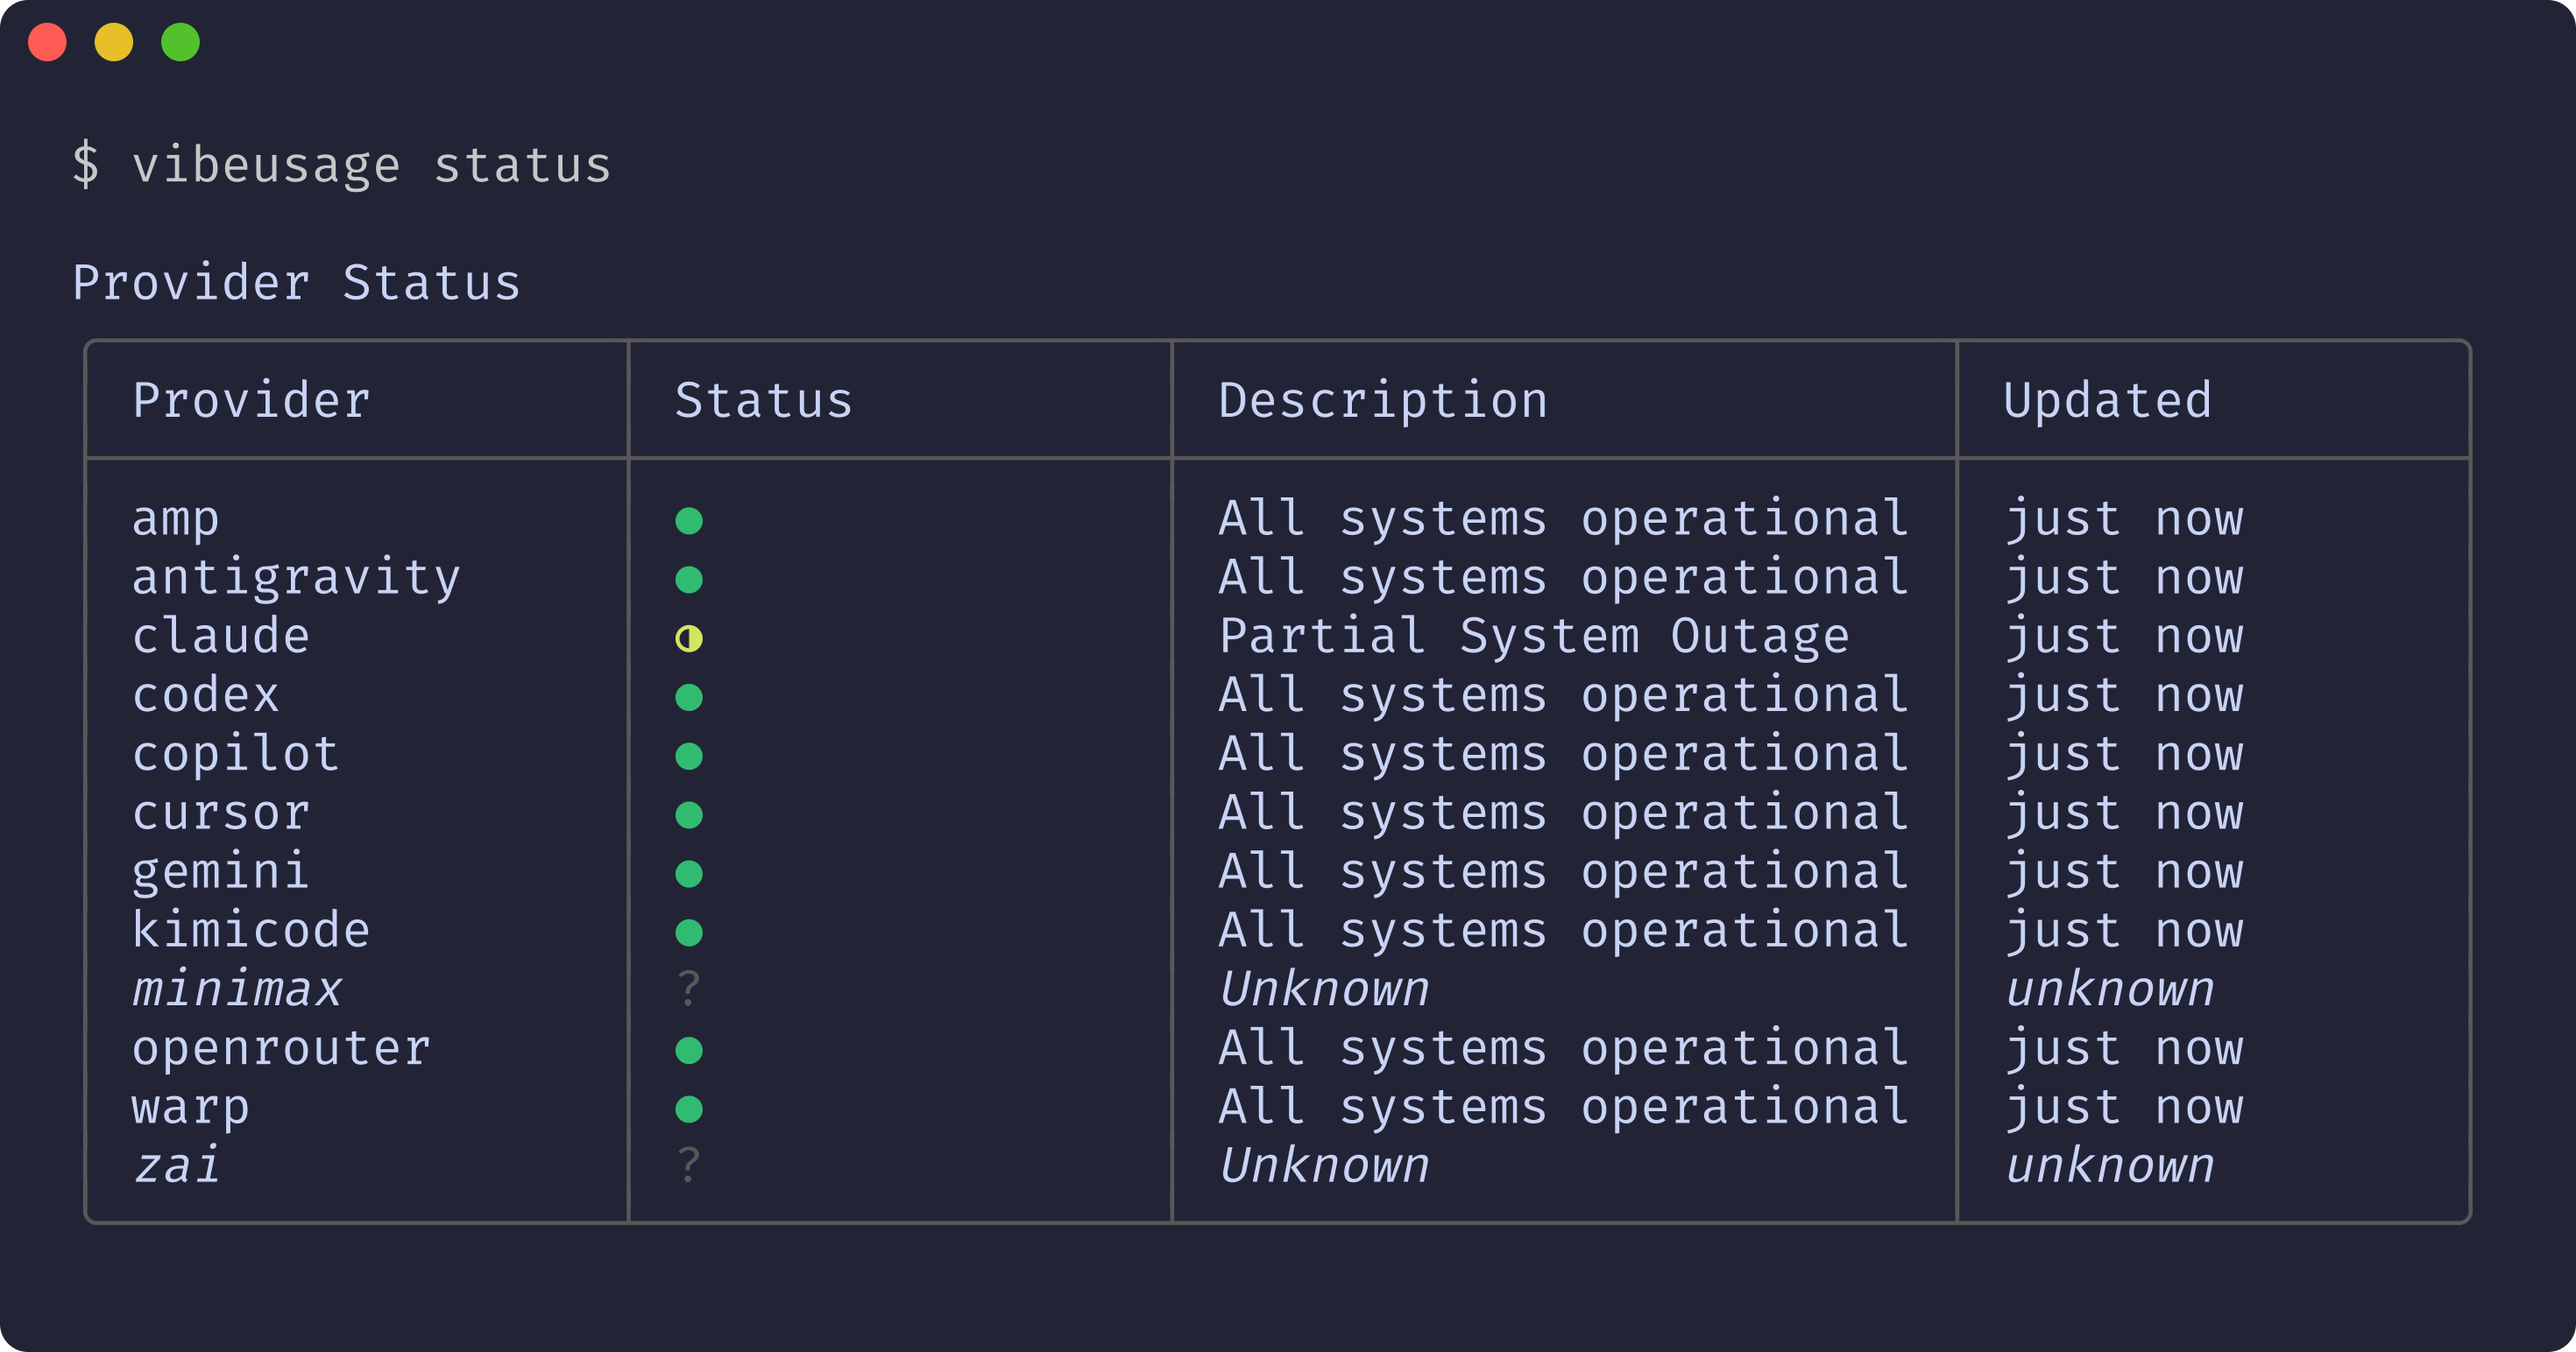
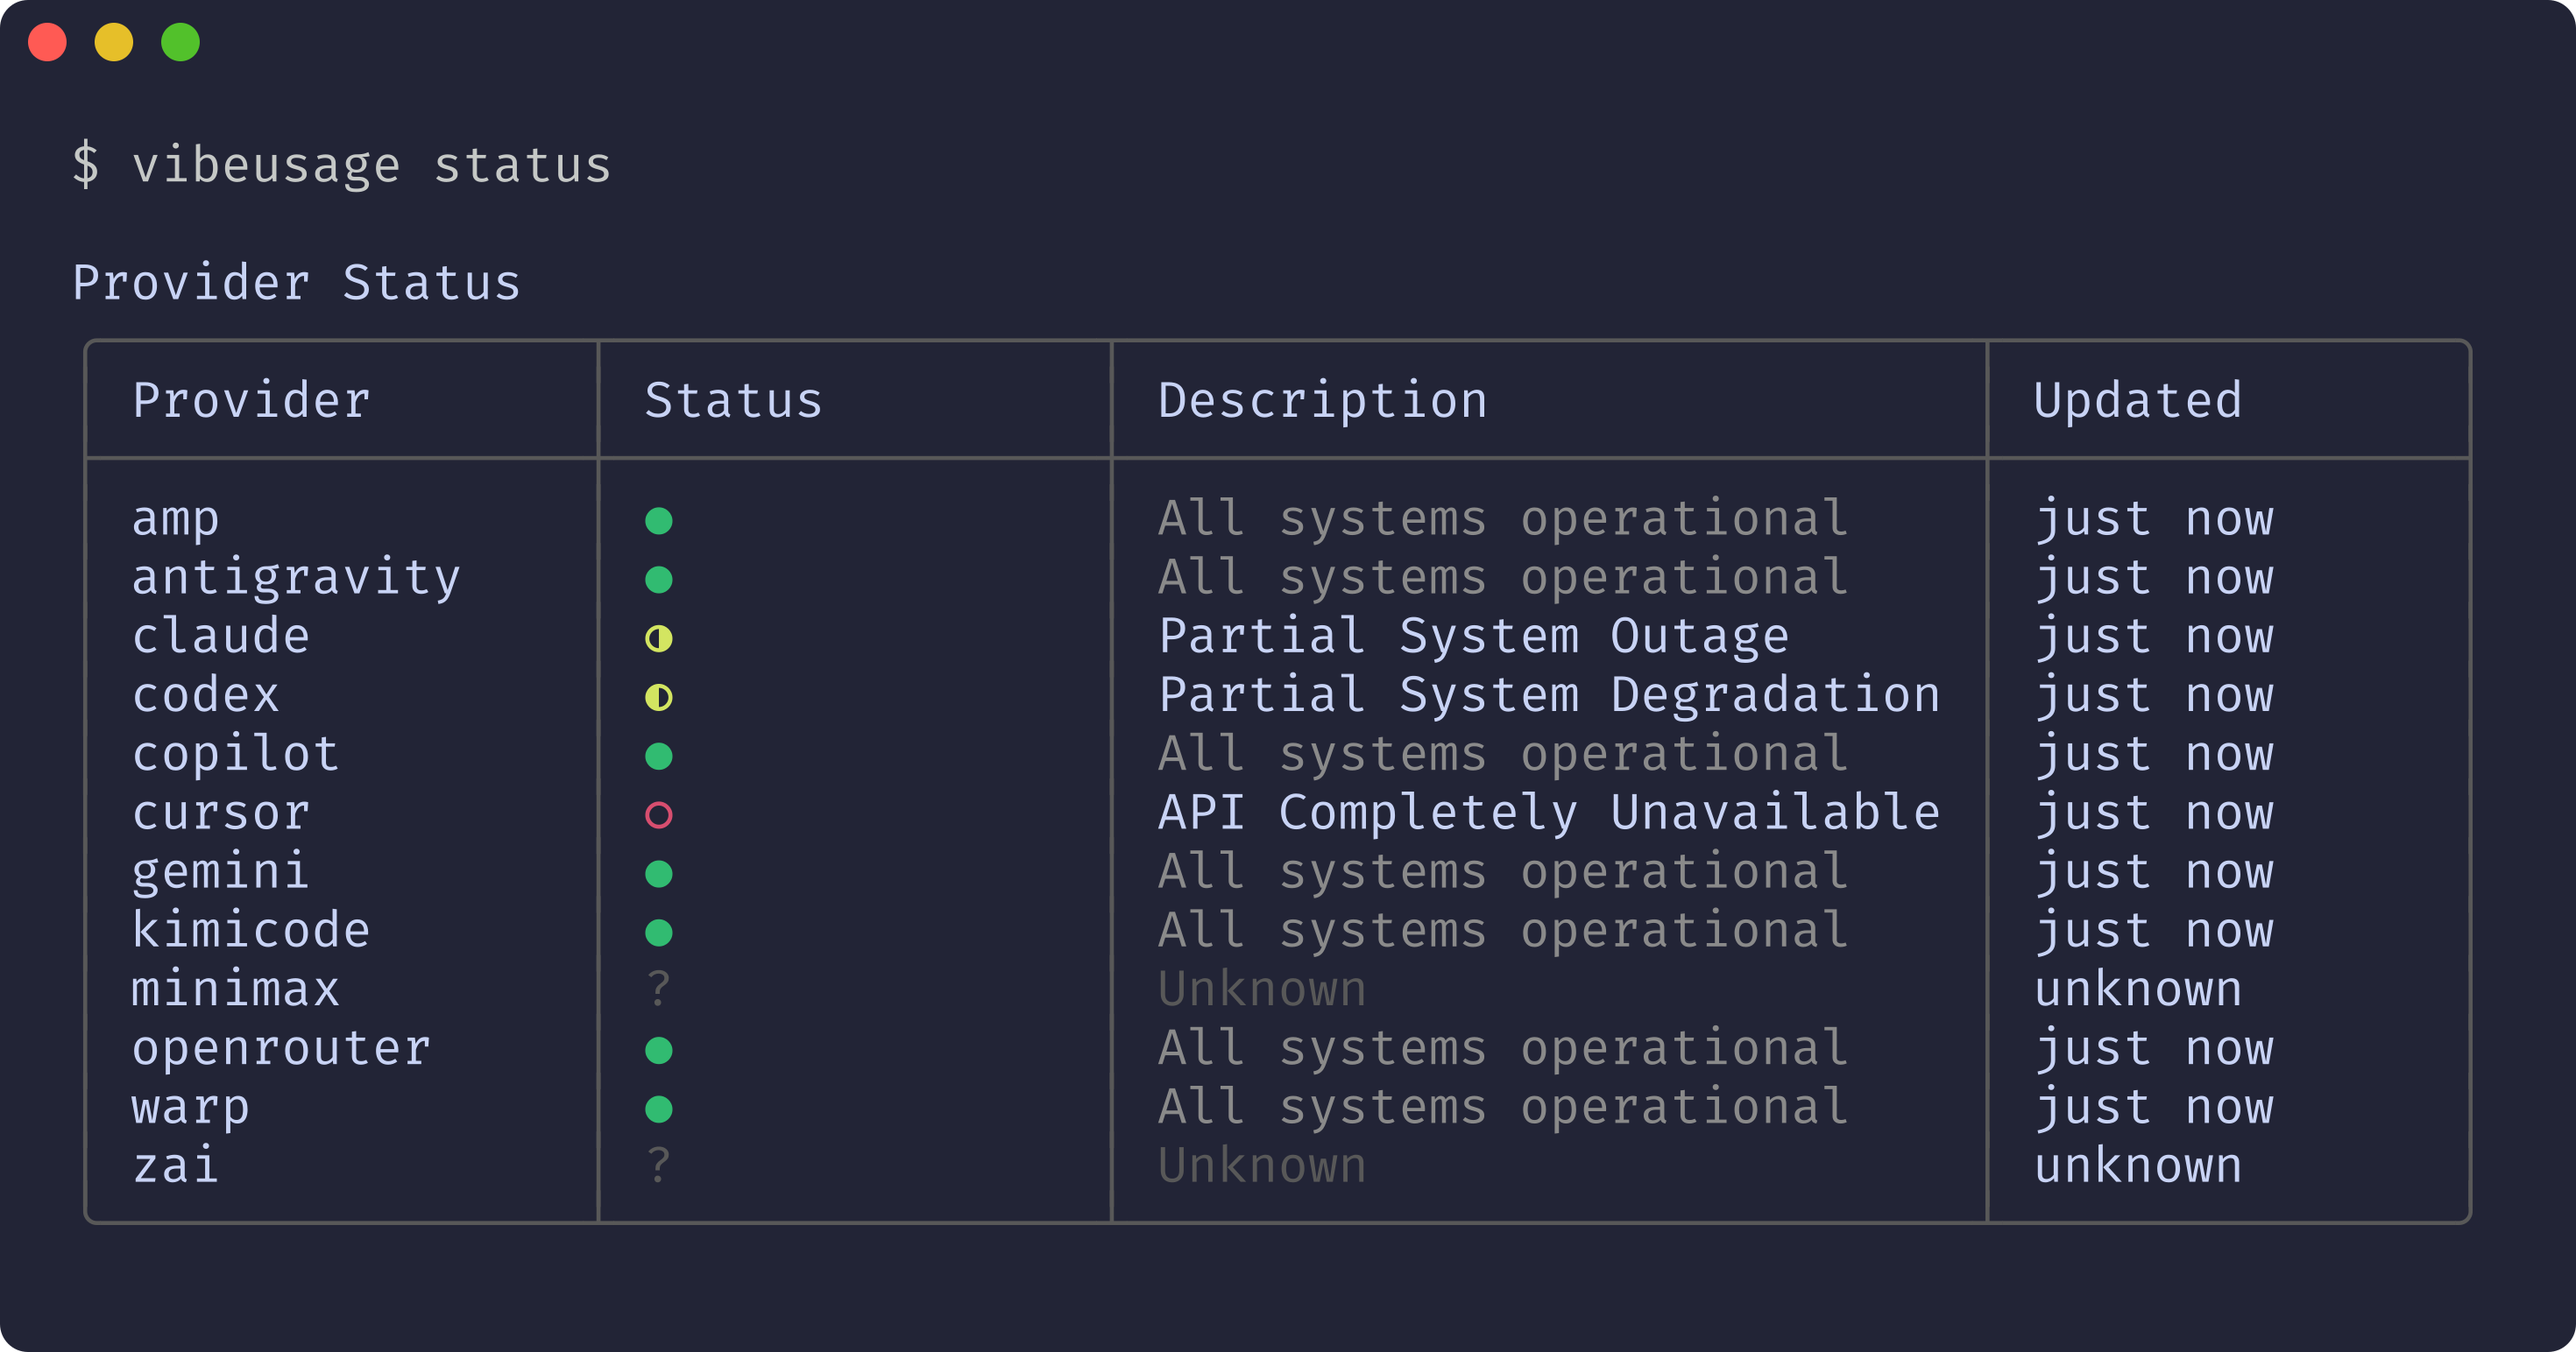
update styling

diff --git a/internal/display/status.go b/internal/display/status.go
@@ -3,13 +3,21 @@ package display
 import (
 	"sort"
 
+	"github.com/charmbracelet/lipgloss"
 	"github.com/joshuadavidthomas/vibeusage/internal/models"
 )
 
-// FormatStatusRows builds table headers, rows, and per-row styles from a
-// provider status map. Rows are sorted by provider ID. Descriptions are
-// truncated to 30 characters. Providers with unknown status are marked dim.
-func FormatStatusRows(statuses map[string]models.ProviderStatus, noColor bool) (headers []string, rows [][]string, styles []RowStyle) {
+var (
+	boldDescStyle  = lipgloss.NewStyle().Bold(true)
+	mutedDescStyle = lipgloss.NewStyle().Foreground(lipgloss.Color("245"))
+	dimDescStyle   = lipgloss.NewStyle().Foreground(lipgloss.Color("240"))
+)
+
+// FormatStatusRows builds table headers and rows from a provider status map.
+// Rows are sorted by provider ID. Descriptions are truncated to 30 characters.
+// Operational and unknown descriptions are dimmed so degraded/outage
+// descriptions stand out.
+func FormatStatusRows(statuses map[string]models.ProviderStatus, noColor bool) (headers []string, rows [][]string) {
 	ids := make([]string, 0, len(statuses))
 	for id := range statuses {
 		ids = append(ids, id)
@@ -24,18 +32,23 @@ func FormatStatusRows(statuses map[string]models.ProviderStatus, noColor bool) (
 		if len(desc) > 30 {
 			desc = desc[:27] + "..."
 		}
+		if !noColor {
+			switch s.Level {
+			case models.StatusMajorOutage:
+				desc = boldDescStyle.Render(desc)
+			case models.StatusOperational:
+				desc = mutedDescStyle.Render(desc)
+			case models.StatusUnknown:
+				desc = dimDescStyle.Render(desc)
+			}
+		}
 		rows = append(rows, []string{
 			pid,
 			StatusSymbol(s.Level, noColor),
 			desc,
 			FormatStatusUpdated(s.UpdatedAt),
 		})
-		if s.Level == models.StatusUnknown {
-			styles = append(styles, RowDim)
-		} else {
-			styles = append(styles, RowNormal)
-		}
 	}
 
-	return headers, rows, styles
+	return headers, rows
 }

diff --git a/cmd/vibeshots/mockdata.go b/cmd/vibeshots/mockdata.go
@@ -403,9 +403,7 @@ func mockRouteRoleRecommendation() routing.RoleRecommendation {
 }
 
 func mockProviderStatuses() map[string]models.ProviderStatus {
-	// Descriptions are now derived from Level via DisplayDescription().
-	// Only non-operational statuses with active incidents set Description
-	// as an override (e.g. incident titles from upstream APIs).
+	// Showcase all status levels so the vibeshot captures the full styling range.
 	return map[string]models.ProviderStatus{
 		"amp": {
 			Level:     models.StatusOperational,
@@ -421,16 +419,18 @@ func mockProviderStatuses() map[string]models.ProviderStatus {
 			UpdatedAt:   justNow(),
 		},
 		"codex": {
-			Level:     models.StatusOperational,
-			UpdatedAt: justNow(),
+			Level:       models.StatusDegraded,
+			Description: "Partial System Degradation",
+			UpdatedAt:   justNow(),
 		},
 		"copilot": {
 			Level:     models.StatusOperational,
 			UpdatedAt: justNow(),
 		},
 		"cursor": {
-			Level:     models.StatusOperational,
-			UpdatedAt: justNow(),
+			Level:       models.StatusMajorOutage,
+			Description: "API Completely Unavailable",
+			UpdatedAt:   justNow(),
 		},
 		"gemini": {
 			Level:     models.StatusOperational,

diff --git a/internal/cli/status.go b/internal/cli/status.go
@@ -107,11 +107,11 @@ func displayStatusTable(ctx context.Context, statuses map[string]models.Provider
 		return
 	}
 
-	headers, rows, rowStyles := display.FormatStatusRows(statuses, noColor)
+	headers, rows := display.FormatStatusRows(statuses, noColor)
 	outln(display.NewTableWithOptions(
 		headers,
 		rows,
-		display.TableOptions{Title: "Provider Status", NoColor: noColor, Width: display.TerminalWidth(), RowStyles: rowStyles},
+		display.TableOptions{Title: "Provider Status", NoColor: noColor, Width: display.TerminalWidth()},
 	))
 
 	if durationMs > 0 {

diff --git a/internal/display/table.go b/internal/display/table.go
@@ -32,7 +32,7 @@ func NewTableWithOptions(headers []string, rows [][]string, opts TableOptions) s
 	headerStyle := lipgloss.NewStyle().Bold(true).Padding(0, 1)
 	cellStyle := lipgloss.NewStyle().Padding(0, 1)
 	boldStyle := lipgloss.NewStyle().Bold(true).Padding(0, 1)
-	dimStyle := lipgloss.NewStyle().Faint(true).Italic(true).Padding(0, 1)
+	dimStyle := lipgloss.NewStyle().Foreground(lipgloss.Color("240")).Padding(0, 1)
 	borderStyle := lipgloss.NewStyle().Foreground(lipgloss.Color("240"))
 
 	if opts.NoColor {

diff --git a/cmd/vibeshots/scenes.go b/cmd/vibeshots/scenes.go
@@ -174,11 +174,11 @@ func sceneStatus() {
 	printPrompt("vibeusage status")
 
 	statuses := mockProviderStatuses()
-	headers, rows, rowStyles := display.FormatStatusRows(statuses, false)
+	headers, rows := display.FormatStatusRows(statuses, false)
 	fmt.Println(display.NewTableWithOptions(
 		headers,
 		rows,
-		display.TableOptions{Title: "Provider Status", Width: 80, RowStyles: rowStyles},
+		display.TableOptions{Title: "Provider Status", Width: 80},
 	))
 }
 
